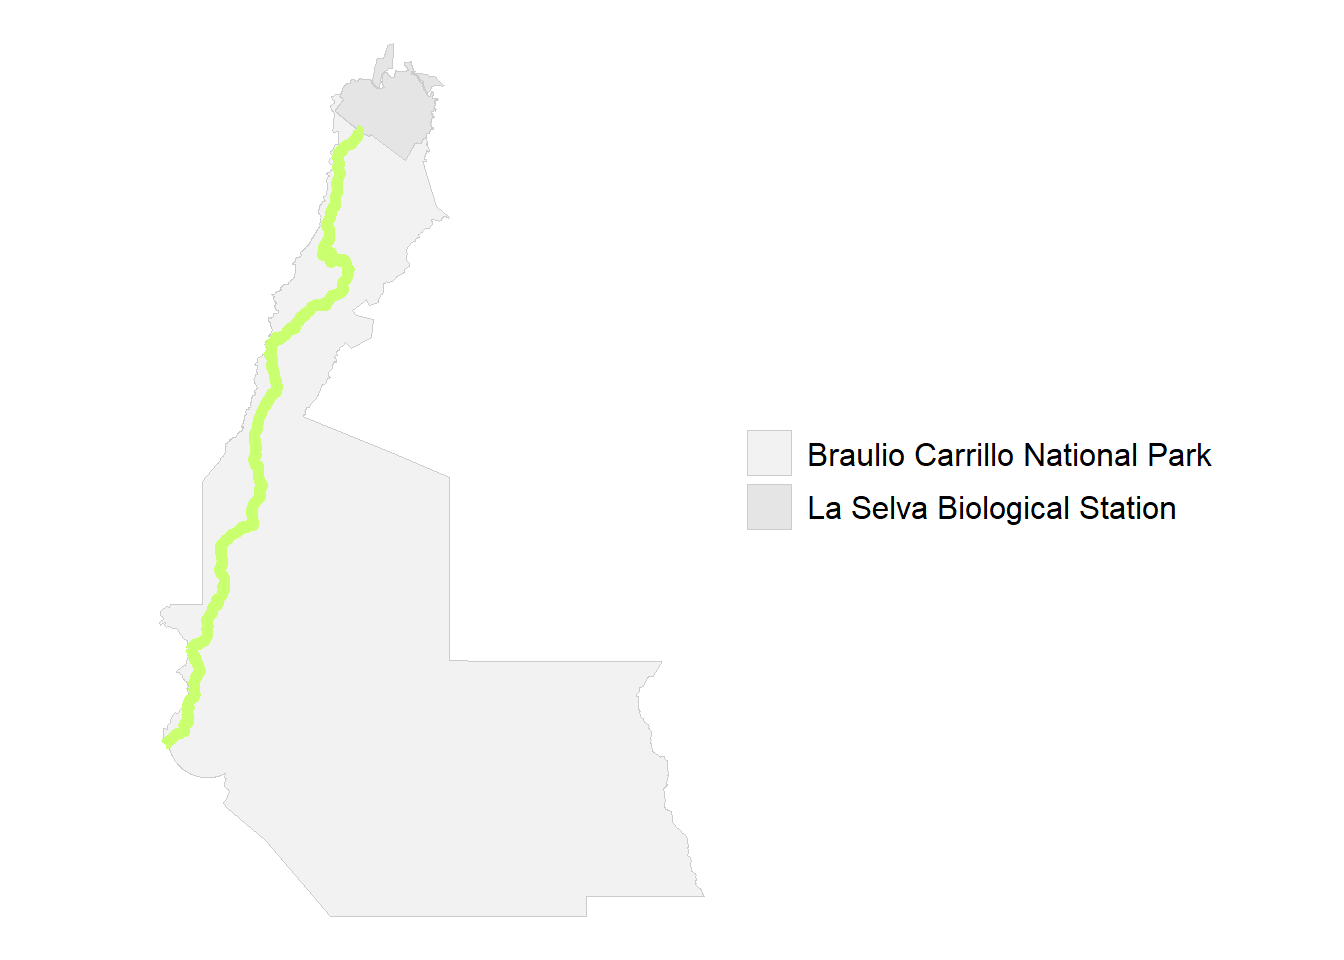
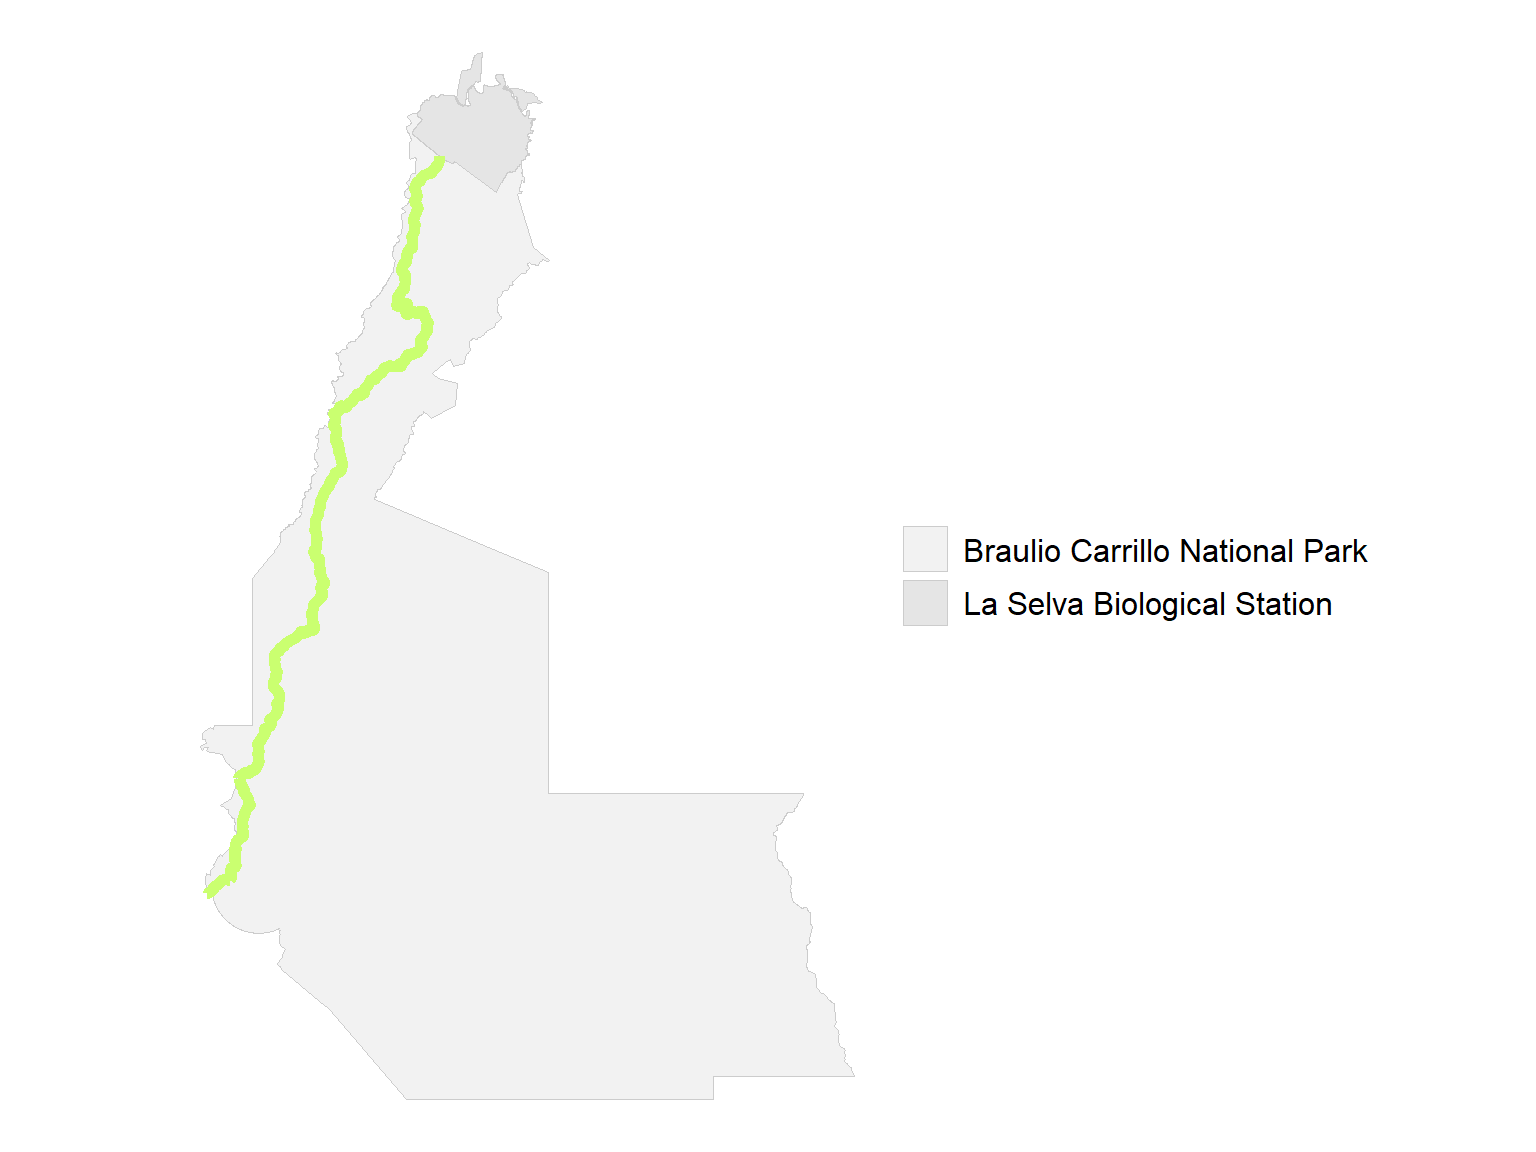
re-render

Changed region(s): [[0.125, 0.0312, 0.3438, 0.7812], [0.5312, 0.4375, 0.9062, 0.5625]]

diff --git a/docs/team.html b/docs/team.html
@@ -165,8 +165,18 @@ ul.task-list li input[type="checkbox"] {
 </header>
 
 
+<section id="jenna-baljunas" class="level2">
+<h2 class="anchored" data-anchor-id="jenna-baljunas">Jenna Baljunas</h2>
+<div class="columns">
+<div class="column" style="width:30%;">
+<p><img src="images/Bio_pic.JPG" class="img-fluid" style="width:90.0%"></p>
+</div><div class="column" style="width:70%;">
+<p>Currently, I am a PhD student in the <a href="https://www.communityecologylab.com/">Spatial and Community Ecology (SpaCE) Lab</a> at Michigan State University.</p>
 
 
+</div>
+</div>
+</section>
 
 </main> <!-- /main -->
 <script id="quarto-html-after-body" type="application/javascript">

diff --git a/docs/index.html b/docs/index.html
@@ -200,7 +200,7 @@ ul.task-list li input[type="checkbox"] {
 <div class="cell-output-display">
 <div>
 <figure class="figure">
-<p><img src="index_files/figure-html/unnamed-chunk-1-1.png" class="img-fluid figure-img" width="672"></p>
+<p><img src="index_files/figure-html/unnamed-chunk-1-1.png" class="img-fluid figure-img" width="768"></p>
 </figure>
 </div>
 </div>